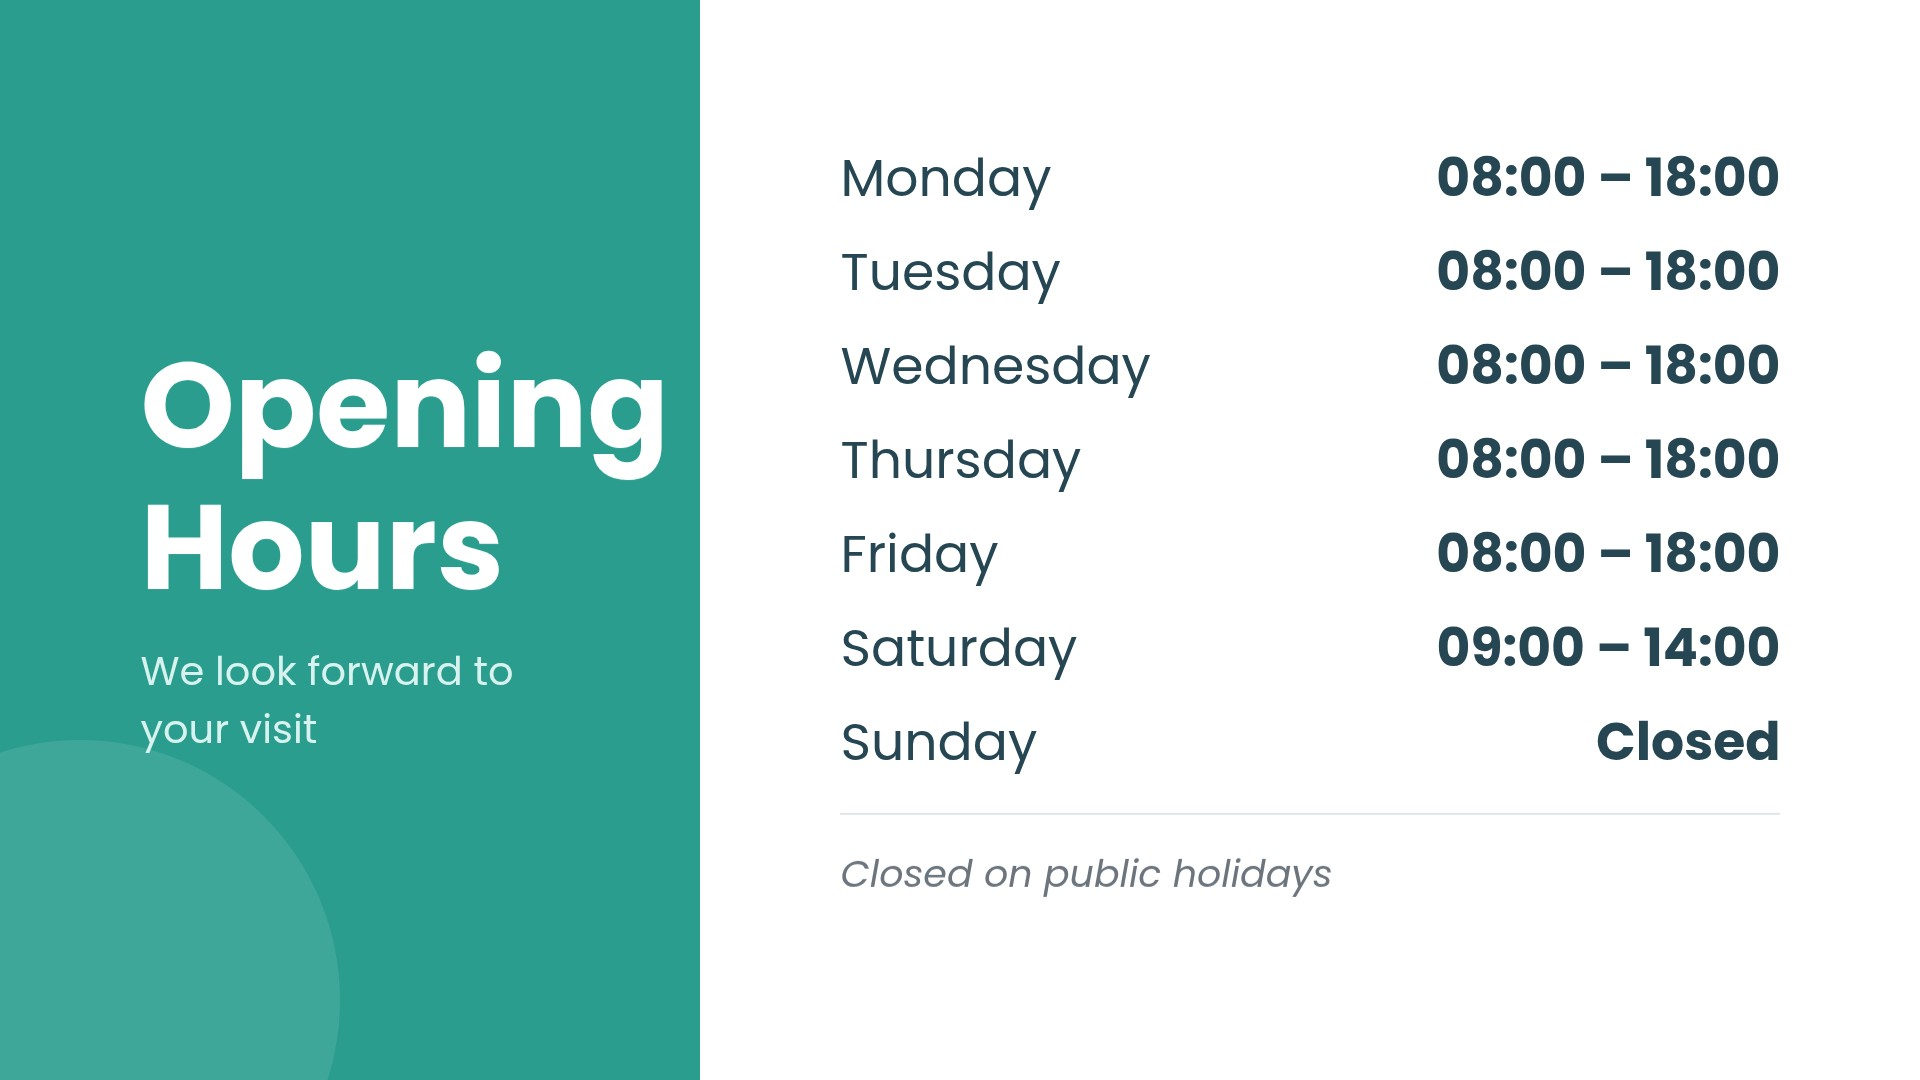
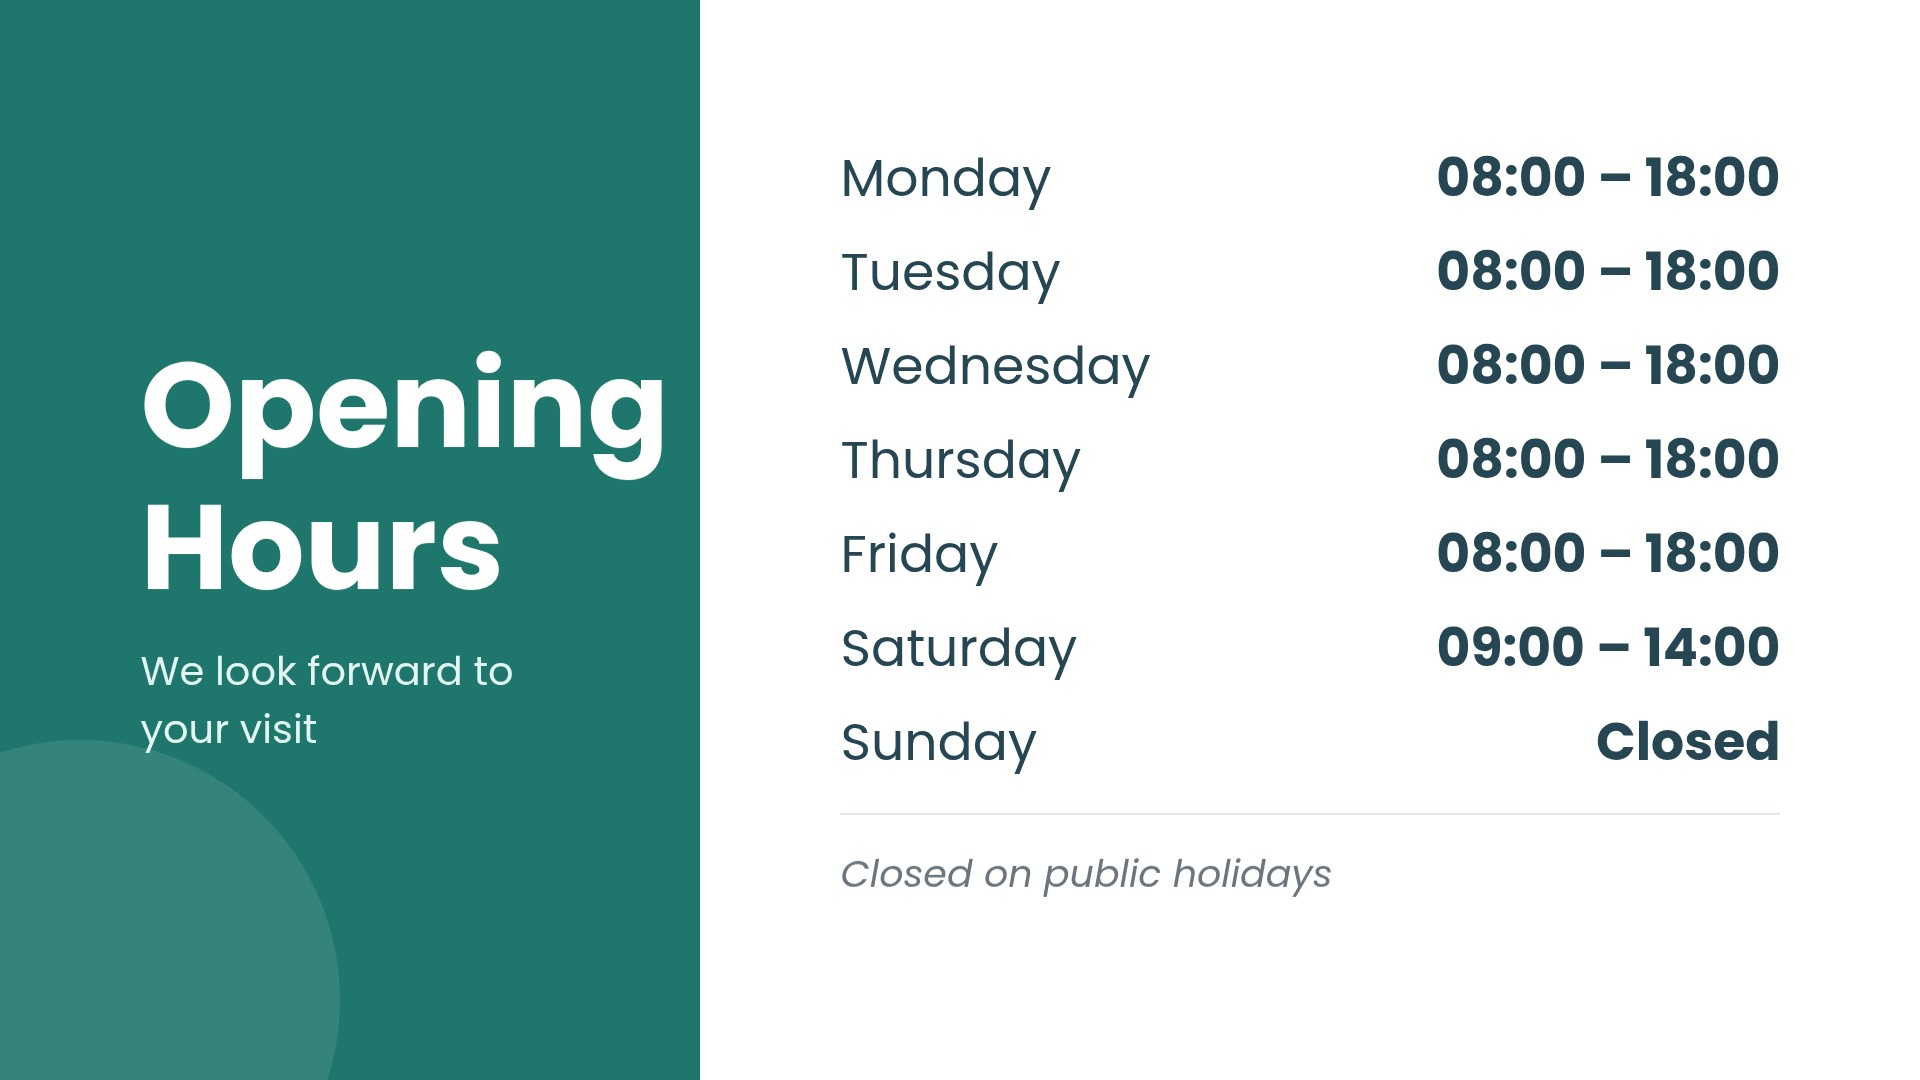
bundled templates follow the design rules

diff --git a/misc/template-generator/templates.js b/misc/template-generator/templates.js
@@ -20,6 +20,10 @@
 
 // The designs of the bundled templates in resources/templates/fabric. Each one is built in landscape and portrait.
 // Only fonts of the composer may be used, they are listed here with their path below public/fonts.
+// The designs keep the rules of the design check of the composer: a font of at least 1/30 of the shorter side (36 px),
+// a contrast of 4.5:1, from 1/20 of the shorter side (54 px) 3:1. A text box is not wider than its text needs when
+// something else lies behind it, because the check measures the whole box. All texts together can be read within the
+// default duration of a playlist item (15 s): two seconds to look and three words a second, so at most 39 words.
 const FONTS = {
 	'BebasNeue-Regular':      'Bebas_Neue/BebasNeue-Regular.ttf',
 	'DejaVuSans':             'Dejavu_Sans/DejaVuSans.ttf',
@@ -80,7 +84,7 @@ function grad(w, h, stops, dir = 'v')
 
 function imagePlaceholder(l, t, w, h, color, label = 'Your image', fill = 'rgba(255,255,255,0.08)')
 {
-	const size = Math.round(Math.max(30, Math.min(w, h) / 12));
+	const size = Math.round(Math.max(36, Math.min(w, h) / 12));
 	return [
 		rect(l, t, w, h, fill, {stroke: color, strokeWidth: 4, strokeDashArray: [20, 14], rx: 16, ry: 16}),
 		text(label, l, t + h / 2, w, size, 'Poppins-Regular', color, {align: 'center', anchor: 'middle'})
@@ -107,8 +111,8 @@ const TEMPLATES = [
 			pad, below(h1, 50), tw, P ? 46 : 46, 'Poppins-Regular', '#C9D6E8', {lh: 1.4});
 		o.push(label, bar, h1, body,
 			rect(pad, H - (P ? 220 : 160), W - 2 * pad, 2, 'rgba(255,255,255,0.25)'),
-			text('Company Name', pad, H - (P ? 180 : 120), (W - 2 * pad) / 2, 34, 'Poppins-Bold', '#FFFFFF'),
-			text('November 2026', W / 2, H - (P ? 180 : 120), (W - 2 * pad) / 2, 34, 'Poppins-Regular', '#C9D6E8', {align: 'right'}));
+			text('Company Name', pad, H - (P ? 180 : 120), (W - 2 * pad) / 2, 36, 'Poppins-Bold', '#FFFFFF'),
+			text('November 2026', W / 2, H - (P ? 180 : 120), (W - 2 * pad) / 2, 36, 'Poppins-Regular', '#C9D6E8', {align: 'right'}));
 		return o;
 	}
 },
@@ -130,7 +134,7 @@ const TEMPLATES = [
 		const sub  = text('to Company Name', pad, below(h1, 20), tw, 60, 'Poppins-Regular', '#3D405B', {align});
 		const bar  = rect(P ? (W - 160) / 2 : pad, below(sub, 50), 160, 6, '#E07A5F');
 		const body = text('Today we are delighted to welcome\nJane Doe and the team of Example Ltd.', pad, below(bar, 50), tw, 44,
-			'Poppins-Regular', '#6B6F80', {align, lh: 1.4});
+			'Poppins-Regular', '#5C6070', {align, lh: 1.4});
 		o.push(h1, sub, bar, body);
 		return o;
 	}
@@ -147,7 +151,7 @@ const TEMPLATES = [
 		];
 		const listX = pad, listW = P ? W - 2 * pad : 960;
 		const title = text("Today's Menu", listX, P ? 110 : 90, listW, P ? 120 : 110, 'PlayfairDisplay', '#F2E8CF', {align: P ? 'center' : 'left'});
-		const sub   = text('FRESH FROM OUR KITCHEN', listX, below(title, 10), listW, 32, 'Poppins-Regular', '#C8B88A', {cs: 300, align: P ? 'center' : 'left'});
+		const sub   = text('FRESH FROM OUR KITCHEN', listX, below(title, 10), listW, 36, 'Poppins-Regular', '#C8B88A', {cs: 300, align: P ? 'center' : 'left'});
 		o.push(title, sub);
 		if (P)
 			o.push(...imagePlaceholder(pad, below(sub, 60), W - 2 * pad, 520, '#C8B88A', 'Your image', 'rgba(242,232,207,0.05)'));
@@ -156,9 +160,9 @@ const TEMPLATES = [
 
 		const dishes = [
 			['Tomato Soup', 'with basil and croutons', '4.50'],
-			['Chicken Curry', 'basmati rice, mango chutney', '9.80'],
-			['Vegetable Lasagna', 'spinach, ricotta, tomato sauce', '8.90'],
-			['Caesar Salad', 'romaine, parmesan, croutons', '7.50'],
+			['Chicken Curry', 'with basmati rice', '9.80'],
+			['Vegetable Lasagna', 'spinach and ricotta', '8.90'],
+			['Caesar Salad', 'with parmesan', '7.50'],
 			['Apple Strudel', 'with vanilla sauce', '3.90'],
 		];
 		const start = P ? 1000 : 330, rowH = P ? 160 : 132;
@@ -166,7 +170,7 @@ const TEMPLATES = [
 			const y = start + i * rowH;
 			o.push(
 				text(name, listX, y, listW - 220, 46, 'Poppins-Bold', '#F2E8CF'),
-				text(desc, listX, y + 60, listW - 220, 30, 'Poppins-Regular', '#A9B3A6'),
+				text(desc, listX, y + 60, listW - 220, 36, 'Poppins-Regular', '#A9B3A6'),
 				text(price, listX + listW - 220, y, 220, 46, 'Poppins-Bold', '#E9C46A', {align: 'right'}),
 			);
 			if (i < dishes.length - 1)
@@ -233,7 +237,7 @@ const TEMPLATES = [
 			text('Time\nPlace\nDress code', ix, iy, lw, 44, 'Poppins-Bold', '#C77DFF', {lh: 1.6}),
 			text('6:00 pm – 11:00 pm\nRooftop terrace, 5th floor\nCasual', ix + lw, iy, W - ix - lw - pad, 44, 'Poppins-Regular', '#FFFFFF', {lh: 1.6}),
 			rect(pad, H - (P ? 260 : 190), W - 2 * pad, 2, 'rgba(255,255,255,0.2)'),
-			text('Please register at the reception by November 20.', pad, H - (P ? 220 : 150), W - 2 * pad, P ? 34 : 38, 'Poppins-Regular', '#E0AAFF', {align}),
+			text('Please register at the reception by November 20.', pad, H - (P ? 220 : 150), W - 2 * pad, 38, 'Poppins-Regular', '#E0AAFF', {align}),
 		);
 		return o;
 	}
@@ -249,16 +253,16 @@ const TEMPLATES = [
 		let tx, ty, tw;
 		if (P)
 		{
-			o.push(rect(0, 0, W, 620, '#2A9D8F'), circ(W - 80, 80, 220, 'rgba(255,255,255,0.10)'));
+			o.push(rect(0, 0, W, 620, '#1F766C'), circ(W - 80, 80, 220, 'rgba(255,255,255,0.10)'));
 			const h1 = text('Opening Hours', pad, 300, W - 2 * pad, 110, 'Poppins-Bold', '#FFFFFF', {anchor: 'middle', lh: 1.05});
-			o.push(h1, text('We look forward to your visit', pad, below(h1, 30), W - 2 * pad, 44, 'Poppins-Regular', '#D8F3EF'));
+			o.push(h1, text('We look forward to your visit', pad, below(h1, 30), W - 2 * pad, 44, 'Poppins-Regular', '#E3F6F2'));
 			tx = pad; ty = 780; tw = W - 2 * pad;
 		}
 		else
 		{
-			o.push(rect(0, 0, 700, H, '#2A9D8F'), circ(80, H - 80, 260, 'rgba(255,255,255,0.10)'));
+			o.push(rect(0, 0, 700, H, '#1F766C'), circ(80, H - 80, 260, 'rgba(255,255,255,0.10)'));
 			const h1 = text('Opening\nHours', pad, H / 2 - 60, 700 - 2 * pad, 120, 'Poppins-Bold', '#FFFFFF', {anchor: 'middle', lh: 1.05});
-			o.push(h1, text('We look forward to your visit', pad, below(h1, 30), 700 - 2 * pad, 40, 'Poppins-Regular', '#D8F3EF', {lh: 1.3}));
+			o.push(h1, text('We look forward to your visit', pad, below(h1, 30), 700 - 2 * pad, 40, 'Poppins-Regular', '#E3F6F2', {lh: 1.3}));
 			tx = 840; ty = 150; tw = W - tx - pad;
 		}
 		const size = P ? 58 : 52, lh = P ? 1.95 : 1.6;
@@ -291,17 +295,17 @@ const TEMPLATES = [
 		const cX = P ? pad : 820, cY = P ? 900 : 160, cW = P ? W - 2 * pad : W - 820 - pad, cH = P ? 880 : 760;
 		o.push(rect(cX, cY, cW, cH, '#FFFFFF', {rx: 32, ry: 32}));
 		const ix = cX + 70, iw = P ? cW - 140 : cW - 140 - 380;
-		const l1 = text('NETWORK', ix, cY + 90, iw, 32, 'Poppins-Bold', '#5C7C82', {cs: 200});
+		const l1 = text('NETWORK', ix, cY + 90, iw, 36, 'Poppins-Bold', '#4A6A70', {cs: 200});
 		const v1 = text('Guest-WiFi', ix, below(l1, 10), iw, P ? 64 : 56, 'RobotoMono', '#0F4C5C');
-		const l2 = text('PASSWORD', ix, below(v1, 60), iw, 32, 'Poppins-Bold', '#5C7C82', {cs: 200});
+		const l2 = text('PASSWORD', ix, below(v1, 60), iw, 36, 'Poppins-Bold', '#4A6A70', {cs: 200});
 		const v2 = text('welcome2026', ix, below(l2, 10), iw, P ? 64 : 56, 'RobotoMono', '#0F4C5C');
 		o.push(l1, v1, l2, v2);
 		if (P)
-			o.push(...imagePlaceholder((W - 340) / 2, below(v2, 70), 340, 340, '#0A9396', 'QR code', 'rgba(10,147,150,0.05)'));
+			o.push(...imagePlaceholder((W - 340) / 2, below(v2, 70), 340, 340, '#0F4C5C', 'QR code', 'rgba(10,147,150,0.05)'));
 		else
 		{
-			o.push(...imagePlaceholder(cX + cW - 70 - 340, cY + 90, 340, 340, '#0A9396', 'QR code', 'rgba(10,147,150,0.05)'));
-			o.push(text('Scan the code or enter the password manually.', ix, cY + cH - 140, cW - 140, 36, 'Poppins-Regular', '#5C7C82'));
+			o.push(...imagePlaceholder(cX + cW - 70 - 340, cY + 90, 340, 340, '#0F4C5C', 'QR code', 'rgba(10,147,150,0.05)'));
+			o.push(text('Scan the code or enter the password manually.', ix, cY + cH - 140, cW - 140, 36, 'Poppins-Regular', '#4A6A70'));
 		}
 		return o;
 	}
@@ -342,17 +346,17 @@ const TEMPLATES = [
 	{
 		const P = H > W, pad = P ? 100 : 140;
 		const o = [bg(W, H, '#EEF2FF'),
-			P ? rect(0, 0, W, 760, '#4361EE') : rect(0, 0, 820, H, '#4361EE'),
+			P ? rect(0, 0, W, 760, '#3651D4') : rect(0, 0, 820, H, '#3651D4'),
 			circ(P ? 60 : 80, P ? 80 : H - 60, 200, 'rgba(255,255,255,0.10)')];
 		const cx = P ? W / 2 : 820, cy = P ? 760 : H / 2, r = P ? 280 : 300;
 		o.push(circ(cx, cy, r, '#FFFFFF'),
-			circ(cx, cy, r - 20, '#E4E9FF', {stroke: '#4361EE', strokeWidth: 4, strokeDashArray: [20, 14]}),
-			text('Photo', cx - r, cy, 2 * r, 48, 'Poppins-Regular', '#4361EE', {align: 'center', anchor: 'middle'}));
+			circ(cx, cy, r - 20, '#E4E9FF', {stroke: '#3651D4', strokeWidth: 4, strokeDashArray: [20, 14]}),
+			text('Photo', cx - r, cy, 2 * r, 48, 'Poppins-Regular', '#3651D4', {align: 'center', anchor: 'middle'}));
 		const tx = P ? pad : 1200, tw = P ? W - 2 * pad : W - 1200 - pad, align = P ? 'center' : 'left';
-		const label = text('PLEASE WELCOME', tx, P ? 1100 : 300, tw, 38, 'Poppins-Bold', '#4361EE', {cs: 300, align});
+		const label = text('PLEASE WELCOME', tx, P ? 1100 : 300, tw, 38, 'Poppins-Bold', '#3651D4', {cs: 300, align});
 		const name  = text('Jane Doe', tx, below(label, 20), tw, 110, 'Poppins-Bold', '#1B1F3B', {align, lh: 1.05});
-		const role  = text('Marketing Manager', tx, below(name, 10), tw, 52, 'Poppins-Regular', '#4361EE', {align});
-		const bar   = rect(P ? (W - 120) / 2 : tx, below(role, 50), 120, 6, '#4361EE');
+		const role  = text('Marketing Manager', tx, below(name, 10), tw, 52, 'Poppins-Regular', '#3651D4', {align});
+		const bar   = rect(P ? (W - 120) / 2 : tx, below(role, 50), 120, 6, '#3651D4');
 		const body  = text('Jane joins our marketing team on November 1. Say hello and give a warm welcome!', tx, below(bar, 50), tw, 42,
 			'Poppins-Regular', '#4A4E69', {align, lh: 1.45});
 		o.push(label, name, role, bar, body);
@@ -397,10 +401,10 @@ const TEMPLATES = [
 		const h1 = text('Directions', pad, P ? 140 : 90, W - 2 * pad, P ? 110 : 90, 'Poppins-Bold', '#FFFFFF');
 		o.push(h1, rect(pad, below(h1, 20), 120, 6, '#10B981'));
 		const rows = [
-			['→', '#10B981', 'Meeting Rooms', 'Floor 1 · Rooms 101–104'],
-			['←', '#3B82F6', 'Reception', 'Ground floor'],
-			['↑', '#F59E0B', 'Cafeteria', 'Floor 2 · open 11:30 – 14:00'],
-			['↓', '#EF4444', 'Parking', 'Level -1 · Visitors'],
+			['→', '#047857', 'Meeting Rooms', 'Floor 1 · Rooms 101–104'],
+			['←', '#2563EB', 'Reception', 'Ground floor'],
+			['↑', '#B45309', 'Cafeteria', 'Floor 2 · open 11:30 – 14:00'],
+			['↓', '#DC2626', 'Parking', 'Level -1 · Visitors'],
 		];
 		const start = P ? 500 : 270, rowH = P ? 350 : 190, box = P ? 220 : 150;
 		rows.forEach(([arrow, color, dest, info], i) => {
@@ -409,7 +413,7 @@ const TEMPLATES = [
 				rect(pad, y, box, box, color, {rx: 24, ry: 24}),
 				text(arrow, pad, cyRow, box, P ? 150 : 110, 'DejaVuSans', '#FFFFFF', {align: 'center', anchor: 'middle', lh: 1}),
 				text(dest, pad + box + 50, cyRow - 6, W - 2 * pad - box - 50, P ? 70 : 60, 'Poppins-Bold', '#FFFFFF', {anchor: 'bottom'}),
-				text(info, pad + box + 50, cyRow + 6, W - 2 * pad - box - 50, P ? 40 : 34, 'Poppins-Regular', '#9CA3AF'),
+				text(info, pad + box + 50, cyRow + 6, W - 2 * pad - box - 50, 40, 'Poppins-Regular', '#9CA3AF'),
 			);
 			if (i < rows.length - 1)
 				o.push(rect(pad, y + box + (rowH - box) / 2, W - 2 * pad, 2, 'rgba(255,255,255,0.10)'));
@@ -439,7 +443,7 @@ const TEMPLATES = [
 
 		const tri = P ? 520 : 480, tx = P ? (W - tri) / 2 : pad, ty = P ? 260 : (H - tri * 0.88) / 2;
 		o.push(new fabric.Triangle({left: tx, top: ty, width: tri, height: tri * 0.88, fill: '#111111', strokeWidth: 0}),
-			text('!', tx, ty + tri * 0.56, tri, tri * 0.6, 'BebasNeue-Regular', '#FFC300', {align: 'center', anchor: 'middle', lh: 1}));
+			text('!', tx + tri * 0.35, ty + tri * 0.56, tri * 0.3, tri * 0.6, 'BebasNeue-Regular', '#FFC300', {align: 'center', anchor: 'middle', lh: 1}));
 		const x = P ? pad : tx + tri + 100, w = P ? W - 2 * pad : W - x - pad, align = P ? 'center' : 'left';
 		const label = text('SAFETY NOTICE', x, P ? ty + tri * 0.88 + 100 : 260, w, 40, 'Poppins-Bold', '#111111', {cs: 300, align});
 		const h1    = text('Protective Equipment Required', x, below(label, 20), w, P ? 96 : 92, 'Poppins-Bold', '#111111', {align, lh: 1.08});

diff --git a/public/js/templates/canvas-composer/Services/DesignCheckService.js b/public/js/templates/canvas-composer/Services/DesignCheckService.js
@@ -21,7 +21,7 @@
 /**
  * Three rules for screens which the composer can measure, as hints, nothing is blocked:
  * - the contrast of a text to what is behind it (WCAG: 4.5:1, 3:1 for large text),
- * - the font size against the height of the template (seen from a distance),
+ * - the font size against the shorter side of the template (seen from a distance), a turned screen has the same pixels,
  * - the time to read all texts against the duration of the item.
  * All sizes are in the units of the template, without the zoom of the composer.
  */
@@ -29,7 +29,7 @@ export class DesignCheckService
 {
 	static MIN_CONTRAST       = 4.5;
 	static MIN_CONTRAST_LARGE = 3;
-	/** a text of at least this part of the height counts as large */
+	/** a text of at least this part of the shorter side counts as large */
 	static LARGE_FONT_SHARE   = 1 / 20;
 	/** smaller is hard to read from a few meters */
 	static MIN_FONT_SHARE     = 1 / 30;
@@ -54,16 +54,17 @@ export class DesignCheckService
 	check()
 	{
 		const hints = [];
+		const side  = Math.min(this.#viewportService.width, this.#viewportService.height);
 		const texts = this.#fabricWrapper.getObjects().filter(object => DesignCheckService.isText(object) && object.visible !== false && object.text.trim() !== "");
 		for (const text of texts)
 		{
 			const fontSize = Math.round(text.fontSize * (text.scaleY ?? 1));
-			const minSize  = Math.ceil(this.#viewportService.height * DesignCheckService.MIN_FONT_SHARE);
+			const minSize  = Math.ceil(side * DesignCheckService.MIN_FONT_SHARE);
 			if (fontSize < minSize)
 				hints.push({object: text, key: "design_small_font", values: {size: fontSize, min: minSize}});
 
 			const ratio       = this.#contrastRatio(text);
-			const minContrast = fontSize >= this.#viewportService.height * DesignCheckService.LARGE_FONT_SHARE ? DesignCheckService.MIN_CONTRAST_LARGE : DesignCheckService.MIN_CONTRAST;
+			const minContrast = fontSize >= side * DesignCheckService.LARGE_FONT_SHARE ? DesignCheckService.MIN_CONTRAST_LARGE : DesignCheckService.MIN_CONTRAST;
 			if (ratio !== null && ratio < minContrast)
 				hints.push({object: text, key: "design_low_contrast", values: {ratio: ratio.toFixed(1), min: minContrast}});
 		}
